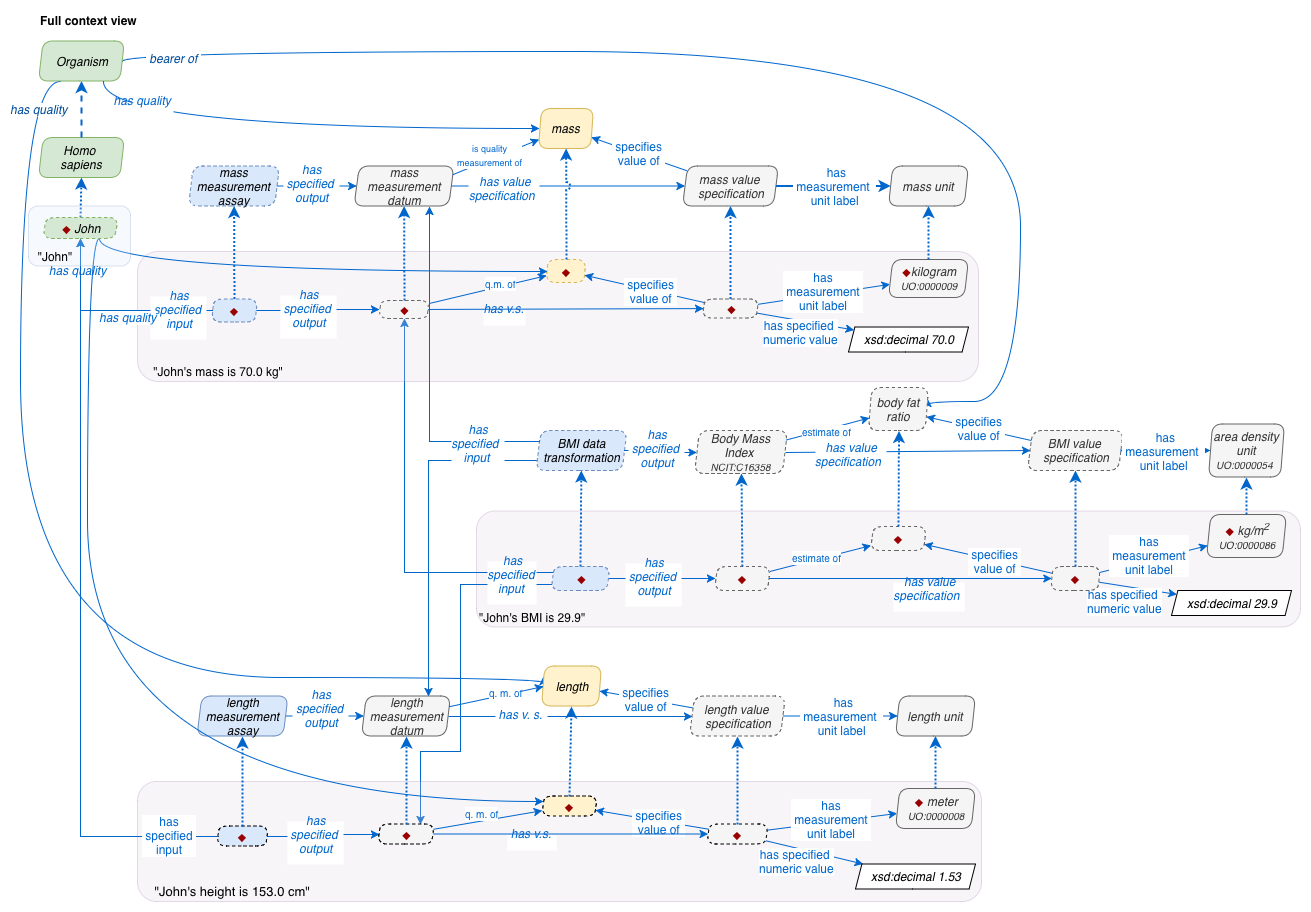
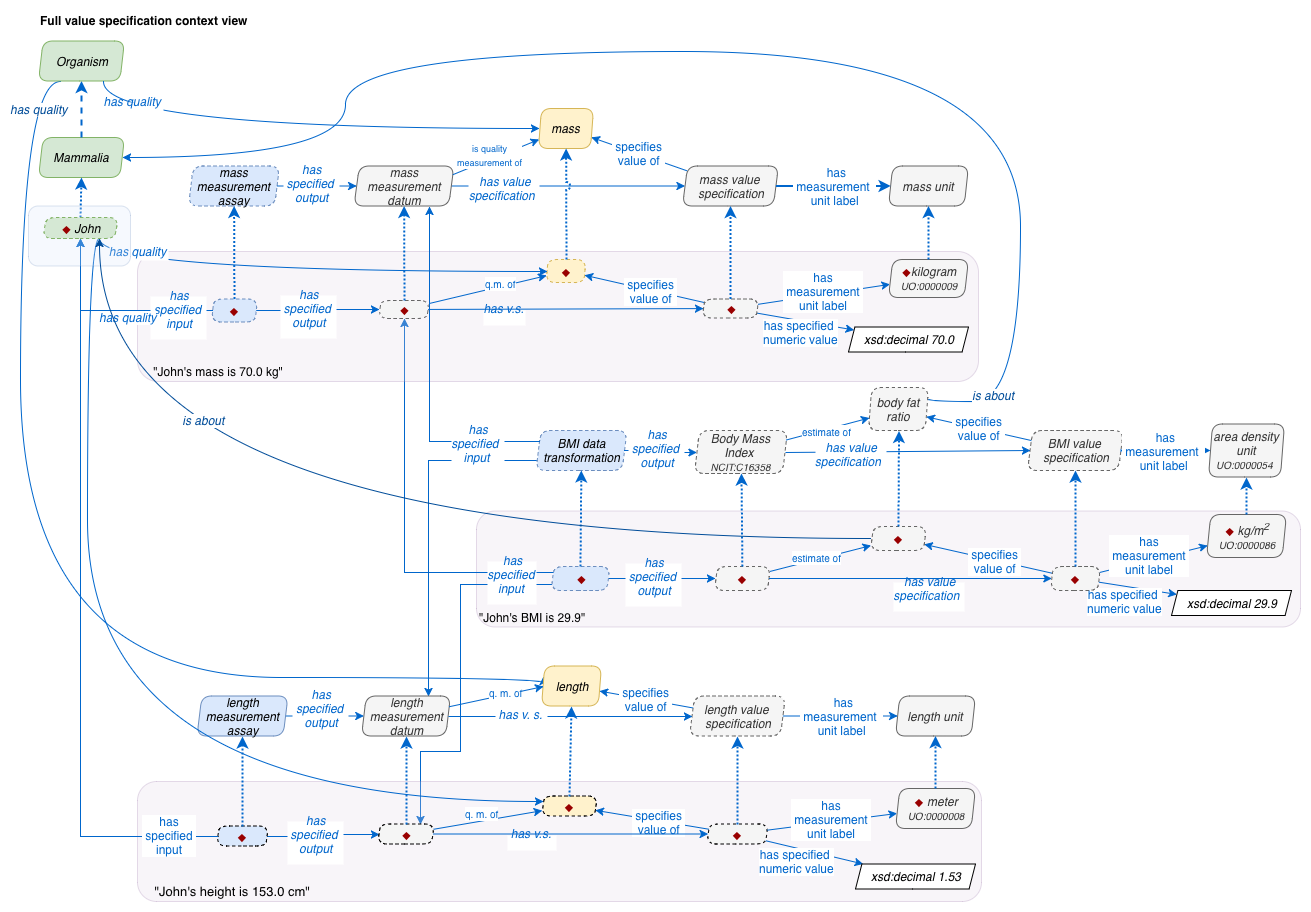
updates

diff --git a/_pages/docs/data-properties.md b/_pages/docs/data-properties.md
@@ -12,33 +12,11 @@ Diagrammed on the left side are typical examples of field data related to a rese
 
 <img align="right" src="/assets/images/docs/data_raw.png">
 
-A given datum value from the left may match one of four scenarios, the first two involving a data properties directly, and the latter two involving a multi-component "value specification" representation as described below. There is also the need to handle [`composite datums`](/docs/data-properties/#composite-datum/) which have datum components.
+A given datum value from the left may match one of four scenarios, the first two involving a data properties directly, and the latter two involving a multi-component "value specification" representation as described below.  An ontology **`data property`** provides a relation to attach an entity instance to some literal datatype value (an RDF number, string or date for example) that is a measure or estimate of what that data property is about. There is also the need to detail a [`composite datum`](/docs/data-properties/#composite-datum/) which has datum components.
 
 ### Datum / data property compatible
 
-OBI can attach a number of [OWL-compatible RDF/XML datatype](https://www.w3.org/2007/OWL/wiki/DatatypeRescue) values directly to `atomic` ICE datums using a [`has xsd:Literal value`](???) data property or one of its sub-properties, as described below.
-
-#### Scalar datum
-
-- [`has xsd:decimal value`](???) data property for storing decimal values.
-- [`has xsd:integer value`](???) data property for storing counts and other integers, e.g. a pH measurement.
-- [`has xsd:float value`](???) data property for storing floating point decimal values.
-
-(Numeric datatypes are detailed in the [Numeric Datums](/docs/datatype-numeric/) section.)
-
-- [`has xsd:dateTime value`](???) or [`has xsd:dateTimeStamp value`](???) (includes time zone)for a datum containing a xsd:dateTime formatted date or time. Has xsd:dateTime or xsd:dateTimeStamp range, respectively. Details are in [Date, Time, and Duration Datums](/docs/datatype-time/); examples of use are in the [Time stamped data](/docs/data-time-stamped/) section.
-
-Representation of [rational](https://www.w3.org/2007/OWL/wiki/OWL_Rational) numbers is a bit more tricky.  
-
-In the future numeric datums will likely include precision and error attributes.
-
-#### Units
-
-If a numeric or datetime value needs a unit associated with it (e.g. metre, kilogram, hour, minute) the [`has measurement unit label`](http://purl.obolibrary.org/obo/IAO_0000039) object property can be used to point to a [`measurement unit label`](http://purl.obolibrary.org/obo/IAO_0000003) entity such as one of the [`Units of Measure Ontology`](http://purl.obolibrary.org/obo/UO_0000000) (UO) terms.  For example, the strings "20g", "20 grams", and "0.02kg" may differ by string comparison, but can be translated into identical value + unit atomic components: a decimal 20.0 and a "gram" mass unit.
-
-Note that the [Units of Measure Ontology](https://www.ncbi.nlm.nih.gov/pmc/articles/PMC3468815/) is provided in two versions, one which enumerates particular units like `meter` as individuals of a parent unit class, while the other version supplies all units as classes.  OBI works with units as individuals.
-
-A 2009 editor note in [`is quality measurement of`](http://purl.obolibrary.org/obo/IAO_0000221) explains `has measurement unit label`: *"We decided to hedge on what units of measure are, instead talking about measurement unit labels, which are the information content entities that are about whatever measurement units are. For IAO we need that information entity in any case."*
+OBI can attach a number of [OWL-compatible RDF/XML datatype](https://www.w3.org/2007/OWL/wiki/DatatypeRescue) values directly to "atomic" ICE datums using a [`has xsd:Literal value`](???) data property or one of its sub-properties, as described below.
 
 #### Boolean datum
 
@@ -46,28 +24,38 @@ A 2009 editor note in [`is quality measurement of`](http://purl.obolibrary.org/o
 
 #### String datum
 
-- [`has xsd:string value`](???) for a textual datum can at the very least be compared to other strings.  See [String Datums](/docs/datatype-string/).  Note that categorical options can be defined using regular expressions, as described in String Datums section. However such choices are not ontology entities, and so lack properties or relations.
+- [`has xsd:string value`](???) for a textual datum can at the very least be compared to other strings.  See [String Datums](/docs/datatype-string/).  
 
 #### String datum - token
 
-- [`has token value`](???) is a `has xsd:string value` subproperty reserved for strings that are not subject to further parsing processes, at least within the scope of the ontology they are referenced in.  Example: The (fictitious) [`Social Security Number`](http://purl.obolibrary.org/obo/NCIT_C25686) "000-11-2222", an identifier which serves a data matchmaking role, and which is for practical purposes atomic (although sequences of 0's can mark fictitious records). 
+- [`has token value`](???) (or 'has string token' or ...) is a `has xsd:string value` subproperty reserved for strings that are not subject to further parsing processes, at least within the scope of the ontology they are referenced in.  Example: The (fictitious) [`Social Security Number`](http://purl.obolibrary.org/obo/NCIT_C25686) "000-11-2222", an identifier which serves a data matchmaking role, and which is for practical purposes atomic (although sub-sequences of 0's do signal fictitious records). 
 
 #### String datum - parsable
 
-- [`has parsable value`](???) is a `has xsd:string value` subproperty reserved for textual values that are linguistically or computationally coded.  
+- [`has parsable value`](???) (or 'has parasable string' or 'has textual representation' or ...) is a `has xsd:string value` subproperty reserved for a textual value that is linguistically or computationally coded.  
  
-A parsable value holds "undigested" data, say, in preparation for parsing by SPARQL etc. into more atomic components.  Other object relations may be provided to enable interpretation of such values. It can store values that may or may not fit directly on a numeric or categorical scale, as well as linguistic content (words, phrases, sentences with an optional OWL language facet.  For example: "16500 Mullholland Dr., Los Angeles, CA, USA" can be attached to a [`street address`](http://purl.obolibrary.org/obo/NCIT_C25690) datum. The value needs parsing to extract house/apartment number, street, city, country, etc.  "20g" may be held as a string representation en route to becoming a scalar value + unit data property pair or [scalar value specification](/docs/data-vs/).
+A parsable value holds "undigested" data, say, in preparation for parsing by SPARQL etc. into more atomic components.  Other object relations may be provided to enable interpretation of such values. It can store values that may or may not fit directly on a numeric or categorical scale, as well as linguistic content (words, phrases, sentences with an optional OWL language facet).  For example, a sexulaity datum instance `has parsable value` "m" that is not yet translated to PATO [`male`]( http://purl.obolibrary.org/obo/PATO_0000384).  The string "16500 Mullholland Dr., Los Angeles, CA, USA" can be attached to a [`street address`](http://purl.obolibrary.org/obo/NCIT_C25690) datum. The value needs parsing to extract house/apartment number, street, city, country, etc.  "20g" may be held as a parsable value en route to becoming a scalar value + unit data property pair or [scalar value specification](/docs/data-vs/).
 
 Parsable strings could technically be stored as annotations but the potential for referencing them as input our output of process axioms (e.g. in natural language processing) is then lost.
 
-#### Other resource datum
+#### Resource datum
 
 - [`has xsd:anyURI value`](???) for a datum which contains a URI pointing to a document or other type of resource file.  Example: an ICE [`analytical cytology data file`](http://purl.obolibrary.org/obo/OBI_0000210) specification ["https://onlinelibrary.wiley.com/doi/epdf/10.1002/cyto.990110303"](https://onlinelibrary.wiley.com/doi/epdf/10.1002/cyto.990110303)
 
 
+#### Scalar datum
+
+A specific numeric type can be indicated to capture the numeric type of a spreadsheet field for example.  Numeric datatypes are detailed in the [Numeric Datums](/docs/datatype-numeric/) section.  Also note the [measurement unit](/docs/data-properties/#measurement-units) description below. Suffice to say, the strings "20g", "20 grams", and "0.02kg" may differ by string comparison, but can be translated into identical value + unit atomic components: a decimal 20.0 and a "gram" mass unit.
+
+- [`has xsd:decimal value`](???) data property for storing decimal values.
+- [`has xsd:integer value`](???) data property for storing counts and other integers, e.g. a pH measurement.
+- [`has xsd:float value`](???) data property for storing floating point decimal values.
+
+- [`has xsd:dateTime value`](???) or [`has xsd:dateTimeStamp value`](???) (includes time zone)for a datum containing a xsd:dateTime formatted date or time. Has xsd:dateTime or xsd:dateTimeStamp range, respectively. Details are in [Date, Time, and Duration Datums](/docs/datatype-time/); examples of use are in the [Time stamped data](/docs/data-time-stamped/) section.
+
 ### Scalar value specification compatible
 
-OBI implementers may prefer to isolate the value data collected from assays from the [`measurement datum`](http://purl.obolibrary.org/obo/IAO_0000109) representation level of assay output.  OBI provides a [`has value specification`]() object property that points to a [`scalar value specification`](http://purl.obolibrary.org/obo/OBI_0001931) which can take on the same value and measurement unit label data and object properties as described in the Scalar datum section above.  See [docs/data-vs](docs/data-vs) for more details.
+OBI implementers may prefer to isolate the value data collected from assays from the [`measurement datum`](http://purl.obolibrary.org/obo/IAO_0000109) representation level of assay output.  OBI provides a [`has value specification`]() object property that points to a [`scalar value specification`](http://purl.obolibrary.org/obo/OBI_0001931) which can take on the same value and measurement unit label data and object properties as described above.  See [docs/data-vs](docs/data-vs) for more details.
 
 ### Categorical value specification compatible
 
@@ -75,14 +63,15 @@ A [`categorical value specification`](http://purl.obolibrary.org/obo/OBI_0001930
 
 ## Data Property Implementation Approach
 
-Before we detail the use of `has rdfs:Literal value` etc. data properties, we will discuss OBI's philosophy about data properties in general.  An ontology **`data property`** is a relation from an entity instance straight to some literal datatype value (an RDF number, string or date for example) that is a measure/estimate of what that data property is about. In an ontology one might find a `has age` data property used to express that Lee's age is 12, as shown to the right. OBI shies away from this approach, as explained below.  
-
+Before we detail the use of `has rdfs:Literal value` etc. data properties, we will discuss OBI's philosophy about data properties in general.  In an ontology one might find a `has age` data property used to express that Lee's age is 12, as shown to the right. OBI shies away from this approach, as explained below.
 
 <img src="/assets/images/docs/data_lee_data_property_age.png">
 
 <img align="right" src="/assets/images/docs/data_lee_data_property_ages.png">
 
 The label of the data property tells humans in hopefully plain language what the value is about, but a reasoner will have a bad time guessing what the relation is equivalent to in other graphs that have differently named or identified relations that mean the same thing.  As shown, the problem is magnified if other age quantities are involved.
+
+A second problem is revealed in the age example - is John 12 years old or 12 months? Has it been 19 months since he was fertilized or 19 years! A general way to provide units is required.
 
 <br clear="right">
 
@@ -94,13 +83,17 @@ In fact there are many kinds of [`ages`](http://purl.obolibrary.org/obo/OBI_0001
 
 ### OBI Object Property "Aboutness" Approach
 
-Rather than establish a `has age` data property, OBI expresses that [`age`](http://purl.obolibrary.org/obo/PATO_0000011) is a quality of our entity, and then focuses on defining the semantics of it and its subclasses.  This approach reduces the amount of language needed to describe entities, at the cost of a bit more structure. *Most importantly it enables entities to be the focus of semantic elaboration (axioms) rather than being surrounded by opaque relations.* Below, an age datum instance's value and unit are represented by way of `has xsd:decimal value` and `has measurement unit label`:
+To address these issues, rather than establish a `has age` data property, OBI expresses that [`age`](http://purl.obolibrary.org/obo/PATO_0000011) is a quality of our entity, and then focuses on defining the semantics of it and its subclasses.  This approach reduces the amount of language needed to describe entities, at the cost of a bit more structure. *Most importantly it enables entities to be the focus of semantic elaboration (axioms) rather than being surrounded by opaque relations.* Below, an age datum instance's value and unit are represented by way of `has xsd:decimal value` and `has measurement unit label`:
 
 <img src="/assets/images/docs/data_lee_object_property_age_unit.png">
 
-Stating units is especially important for enabling data exchange unambiguously - units implicitly assumed for a data property may work internally to a system, but are likely to fail when exchanging information with other systems. OBI provides a [`has measurement unit label`](http://purl.obolibrary.org/obo/IAO_0000039) object property for this reason.
-
 The `aboutness` details have the extra benefit of facilitating appropriate data exchange between ontology-driven systems.  By specifying that a string field is about a first name or a last name, maiden name, full name, SIN number, postal code, etc. this 'aboutness' information can guide the merging and federated querying of triple store graphs.  
+
+### Measurement Units
+
+Stating units is especially important for enabling data exchange unambiguously - units implicitly assumed for a data property may work internally to a system, but are likely to fail when exchanging information with other systems. OBI provides a [`has measurement unit label`](http://purl.obolibrary.org/obo/IAO_0000039) object property for this reason.  If a numeric or datetime value needs a unit (e.g. metre, kilogram, hour, minute) the [`has measurement unit label`](http://purl.obolibrary.org/obo/IAO_0000039) object property can be used to point to a [`measurement unit label`](http://purl.obolibrary.org/obo/IAO_0000003) entity such as one of the [`Units of Measure Ontology`](http://purl.obolibrary.org/obo/UO_0000000) (UO) terms. The [Units of Measure Ontology](https://www.ncbi.nlm.nih.gov/pmc/articles/PMC3468815/) is provided in two versions, one which enumerates particular units like `meter` as individuals of a parent unit class, while the other version supplies all units as classes.  OBI works with units as individuals.
+
+A 2009 editor note in [`is quality measurement of`](http://purl.obolibrary.org/obo/IAO_0000221) explains `has measurement unit label`: *"We decided to hedge on what units of measure are, instead talking about measurement unit labels, which are the information content entities that are about whatever measurement units are. For IAO we need that information entity in any case."*
 
 In the diagram below, other types of age measurements are described. The need for units is evident:
 
@@ -110,7 +103,7 @@ Below is another example focusing on providing values for information content en
 
 <img src="/assets/images/docs/data_lee_has_specified_value.png">
 
-And here is a pH measurement example, showing the datum as an output of a process, and alternately with a unit (which some may allow as optional because there is only one unit possible).
+And here is a pH measurement example, showing the datum as an output of a process, and alternately with a unit (which some may allow as optional - UO has the "pH" unit though techically the calculation is a unitless logarithm).
 
 <img src="/assets/images/docs/data_ph_object_property.png">
 
@@ -129,7 +122,7 @@ Data sources may mark missing values in a variety of ways - by an empty string, 
 
 It is straightforward to see a material entity connected to a pertinent quality via `has quality`, but there are other object properties that connect a material entity to other types of things:
 
-- **More broadly, an information content entity (ICE) [`inheres in`](http://purl.obolibrary.org/obo/RO_0000052) material entity or material entity [`bearer of`](http://purl.obolibrary.org/obo/RO_0000053) ICE if the ICE is calculated from qualities of the material entity ????????**
+- More broadly, an information content entity (ICE) [`is about`](http://purl.obolibrary.org/obo/IAO_0000136) material entity if the ICE is calculated from qualities of the material entity.
 
 - Thing [`denotes`](http://purl.obolibrary.org/obo/IAO_0000219) material entity if the thing is a type of **identifier**, such as a [`centrally registered identifier symbol`](http://purl.obolibrary.org/obo/IAO_0000577) like a [`specimen identifier`](http://purl.obolibrary.org/obo/OBI_0001616) or a NCIT [`identifier`](http://purl.obolibrary.org/obo/NCIT_C25364) for example.
 

diff --git a/_pages/docs/data-intro.md b/_pages/docs/data-intro.md
@@ -27,14 +27,17 @@ Under `material entity` we find OBI's **[`organism`](http://purl.obolibrary.org/
 
 Formally, `has quality` is a generic object property existing between a BFO independent continuent entity (the bearer) and a quality, which is a dependent continuent (i.e. something that depends on the existence of its continuent).  [`Homo sapiens`](http://purl.obolibrary.org/obo/NCBITaxon_9606){:target="_blank"} is shown as a descendent of `organism`, a subclass of `material entity`, so in this case the descendants also inherit a mass quality that can be referenced.  (A dashed arrow between entities indicates that several intermediate classes have been omitted).
 
-An optional rose-tinted box may be provided to illustrate how to compose instances of classes and relations - this is "assertion component" (Abox) content. Abox content can form the bulk of a triple-store graph database, with the reasoning axioms of related ontologies added separately when validation of data structures and models is desired. In this example it is stated that "John" is an instance of Homo sapiens, and bears an instance of mass (or mass quality) that can then be referenced by other expressions. The diagram surrounds the entities of this expression by dashed perimiters to indicate that they are not provided by OBI, but rather are "add-on" entities in another application ontology.
+An optional rose-tinted box may be provided to illustrate how to compose instances of classes and relations - this is "assertion component" (Abox) content.  Abox content can form the bulk of a triple-store graph database, with the reasoning axioms of related ontologies added separately when validation of data structures and models is desired.  In this example it is stated that "John" is an instance of Homo sapiens, and bears an instance of mass (or mass quality) that can then be referenced by other expressions. The diagram surrounds the entities of this expression by dashed perimiters to indicate that they are not provided by OBI, but rather are "add-on" entities in another application ontology.
 
 ## The definition of a quality
 
 Some qualities are easily identified, while other phenomena may not be so easily recognized as qualities.  A BFO [`quality`](http://purl.obolibrary.org/obo/BFO_0000019) is a directly measurable feature (or attribute) of an entity at any time during the course of its existence.  This includes most phenomena measured with the International System of Units (SI) base units, including length, mass and temperature, but does not include measurables that are more a function of time, such as velocity or acceleration, or of context, like location.  Color is allowed as a quality insofar as it can be nearly **instantaniously measured** (although technically a frequency measurement, a function of time).
 
-Ontologies often draw from PATO's roster of [`quality`](http://purl.obolibrary.org/obo/PATO_0000001) subclasses, which (except for PATO [`process quality`](http://purl.obolibrary.org/obo/PATO_0001236) branch, see [`issue 284`](https://github.com/oborel/obo-relations/pull/284)) can work as BFO `quality` subclasses too.  This includes PATO [`age`](http://purl.obolibrary.org/obo/PATO_0000011) which, though a time-dependent interval (duration), can be considered a calendar or clock measurement associated with an entity.
+Ontologies often draw from PATO's roster of [`quality`](http://purl.obolibrary.org/obo/PATO_0000001) subclasses, which (except for PATO [`process quality`](http://purl.obolibrary.org/obo/PATO_0001236) branch, see [`issue 284`](https://github.com/oborel/obo-relations/pull/284)) can work as BFO `quality` subclasses too.  
 
 A calculation that takes in more than one quality measurement datum for input will not be directly about the related qualities per se.  One may have to define the phenomena the calculation describes as an [`information content entity`](/docs/data-ice/) (ICE), for example, OBI would consider the [`body mass index`](http://purl.obolibrary.org/obo/NCIT_C16358), an estimate of body fat ratio, to be an ICE datum which therefore an entity can be `bearer of`; see [BMI example](/docs/data-bmi/).
 
 "Eyeballing" a measurement does not change whether the measurement is about a quality or an ICE.  If the measurement can be achieved with only one quality for input, it is about a quality. If it is necessarily a function of more than one quality, it is an ICE.  Examples: assessing the color of an iris is primarily a quality measurement; the focus of the measurement (an iris) is secondary contextual information.  The weight of an individual is also a quality measurement (regardless of solar context, on earth or moon, etc.).  Judging BMI by looking at a person, or subjectively self-assessing via a likert scale question, is still fundamentally about an ICE, not a quality, as the phenomena being measured necessarily has more than one quality involved.
+
+PATO's [`age`](http://purl.obolibrary.org/obo/PATO_0000011) quality is currently listed as-is in OBI although it is about a time-dependent interval, a duration.  OBI currently states that an "`age measurement datum` `is quality measurement of` some `age`". However this axiom will likely be replaced with more of a consensus position that "`age measurement datum` `is about` some `duration`". The documentation here reflects this. 
+

diff --git a/_pages/docs/datatype-string.md b/_pages/docs/datatype-string.md
@@ -9,11 +9,11 @@ sidebar:
 
 ## ISSUE: *Can we allow identifier string values in value specification? See: [issue 985](https://github.com/obi-ontology/obi/issues/985)*
 
-"Free text" string data are often not amenable to data analysis by OWL reasoning unless the values happen to be categorical (see [`categorical`](/docs/datatype-categorical/) data section).  This includes strings like "20g" which haven't been parsed into their numeric and unit components. These can be recorded in an annotation for a given entity ICE component; OBI is currently discussing adding a `has representation` annotation to serve this purpose (see issue [`#985`](https://github.com/obi-ontology/obi/issues/985){:target="_blank"}).
+"Free text" string data are often not amenable to data analysis by OWL reasoning unless the values happen to be categorical (see [`categorical`](/docs/datatype-categorical/) data section).  This includes strings like "20g" which haven't been parsed into their numeric and unit components. These can be recorded in an annotation for a given entity ICE component; OBI is currently discussing adding a `has textual representation` (or `has parsable string`) to serve this purpose (see issue [`#985`](https://github.com/obi-ontology/obi/issues/985)).
 
 Textual identifiers that act as keys to unify records can be useful - these might include alphanumeric health care identifiers, postal codes, or the scientific taxonomic names of plants and animals. The following detail mainly pertains to validating strings that operate as keys having a particular format which should encourage data standardization. 
 
-An OWL data property can hold a string as a plain literal with an optional language tag (see [here](https://www.w3.org/2007/OWL/wiki/PlainLiteral){:target="_blank"} ). String length constraints can also be set via "length", "minLength" and "maxLength" parameters, e.g. "xsd:string[length "5"^^xsd:integer]. A "pattern" parameter is available which supports [regular expression](https://www.regular-expressions.info/xml.html){:target="_blank"} syntax to some extent, allowing "[0-9] [a-z] [A-Z] . ? * + {m,n}" components.
+An OWL data property can hold a string as a plain literal with an optional language tag (see [here](https://www.w3.org/2007/OWL/wiki/PlainLiteral) ). String length constraints can also be set via "length", "minLength" and "maxLength" parameters, e.g. "xsd:string[length "5"^^xsd:integer]. A "pattern" parameter is available which supports [regular expression](https://www.regular-expressions.info/xml.html) syntax to some extent, allowing "[0-9] [a-z] [A-Z] . ? * + {m,n}" components.
 
 For example, one can construct the following representation to store and validate international postal codes generally, and the US Zip Code subclass (a string of 5 digits). 
 
@@ -44,3 +44,6 @@ Fairly well-validated [`email addresses`](http://purl.obolibrary.org/obo/IAO_000
         subClassOf 'has specified value' only xsd:string[pattern "[A-Za-z0-9]+([_.\-][A-Za-z0-9]+)*\@[A-Za-z0-9]+([.\-][A-Za-z0-9]+){1,3}"]
 
 Note one quirk: In pattern matching, the "@" character must be escaped or else the remainder of test string is ignored (i.e. "@" is interpreted as a language facet addition to the string).  Also more work is required to cover possible validation of [international / UTF-8 strings](https://www.regular-expressions.info/unicode.html).
+
+Note that although categorical options can be defined using regular expressions, such choices are not ontology entities, and so lack properties or relations.
+

diff --git a/_pages/docs/datatype-numeric.md b/_pages/docs/datatype-numeric.md
@@ -11,11 +11,11 @@ OWL introduced the owl:real data type as the most generic numeric type, and owl:
 
 OBI generally has two ways to represent a datum's numeric value, depending on whether or not a unit needs to be included.  The simple, unit-less case can be handled by the numeric "has xsd:real" or subordinate "has xsd:decimal" or "has xsd:integer" data properties.  This makes sense for dimensionless numbers like counts.
 
-OBI currently also shows that datums can have a `has measurement unit label`
-Currently all numeric value specifications are handled under the [`scalar value specification`](http://purl.obolibrary.org/obo/OBI_0001931){:target="_blank"}{:target="_blank"} term, which implies that each must have a unit as well. 
+A numeric datum can also have a `has measurement unit label`.
 
+Representation of [rational](https://www.w3.org/2007/OWL/wiki/OWL_Rational) numbers is a bit more tricky.
 
-OBI currently does not provide functionality for specifying numeric precision or error range. 
+OBI currently does not provide functionality for specifying numeric precision or error range, but this will likely be added.
 
 ### Decimal
 
